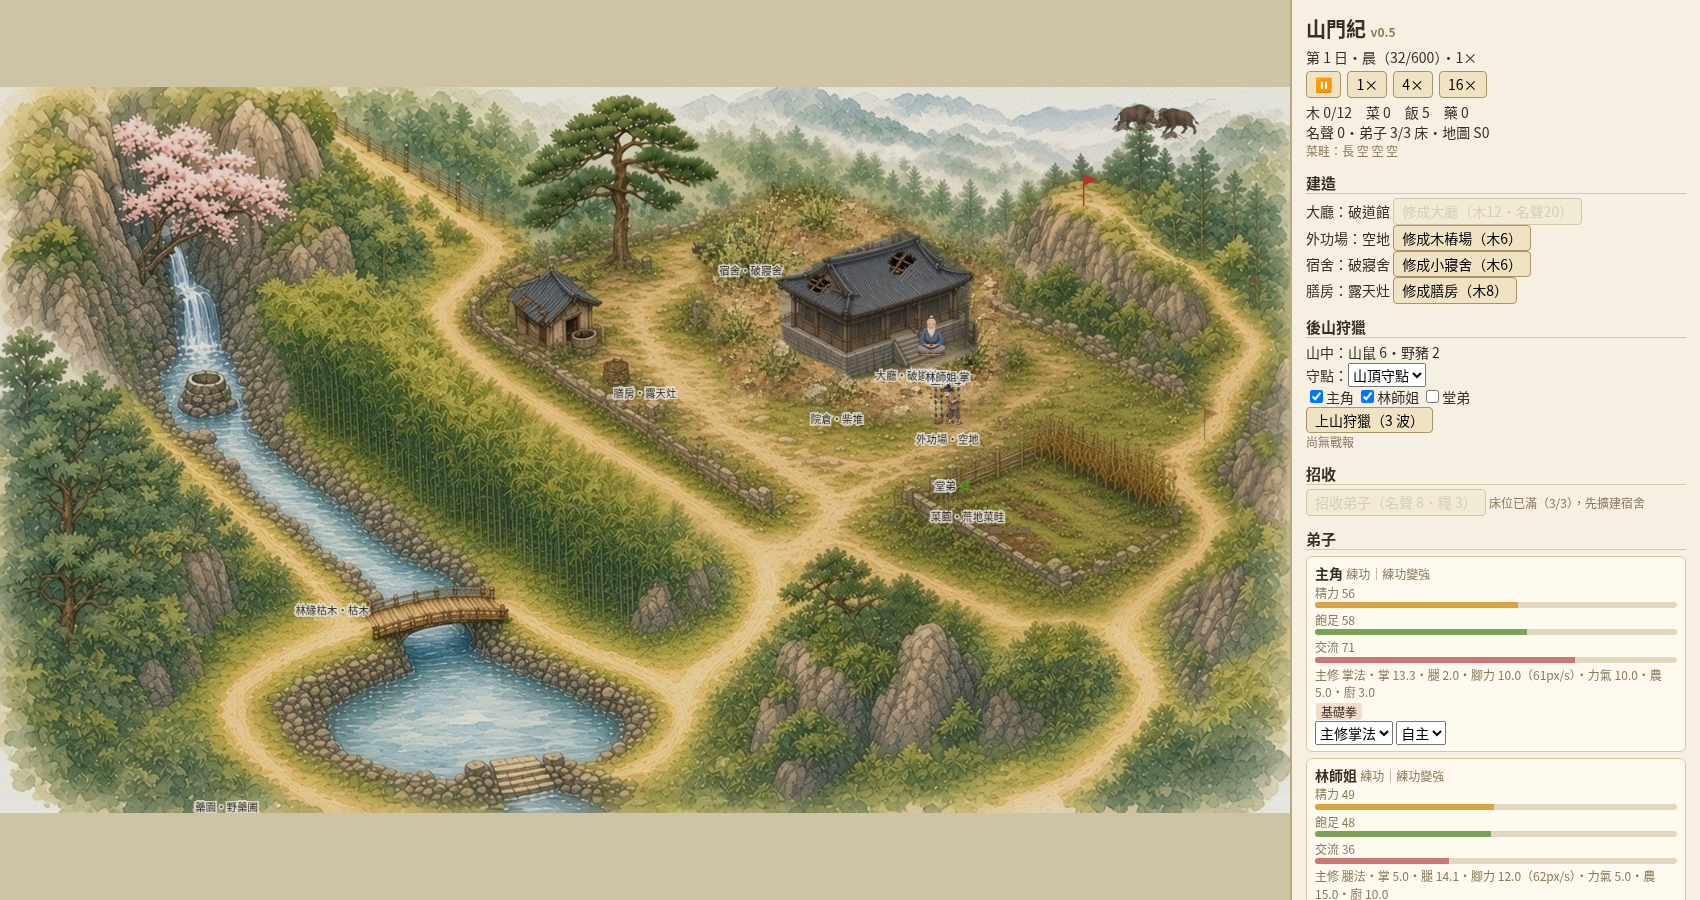
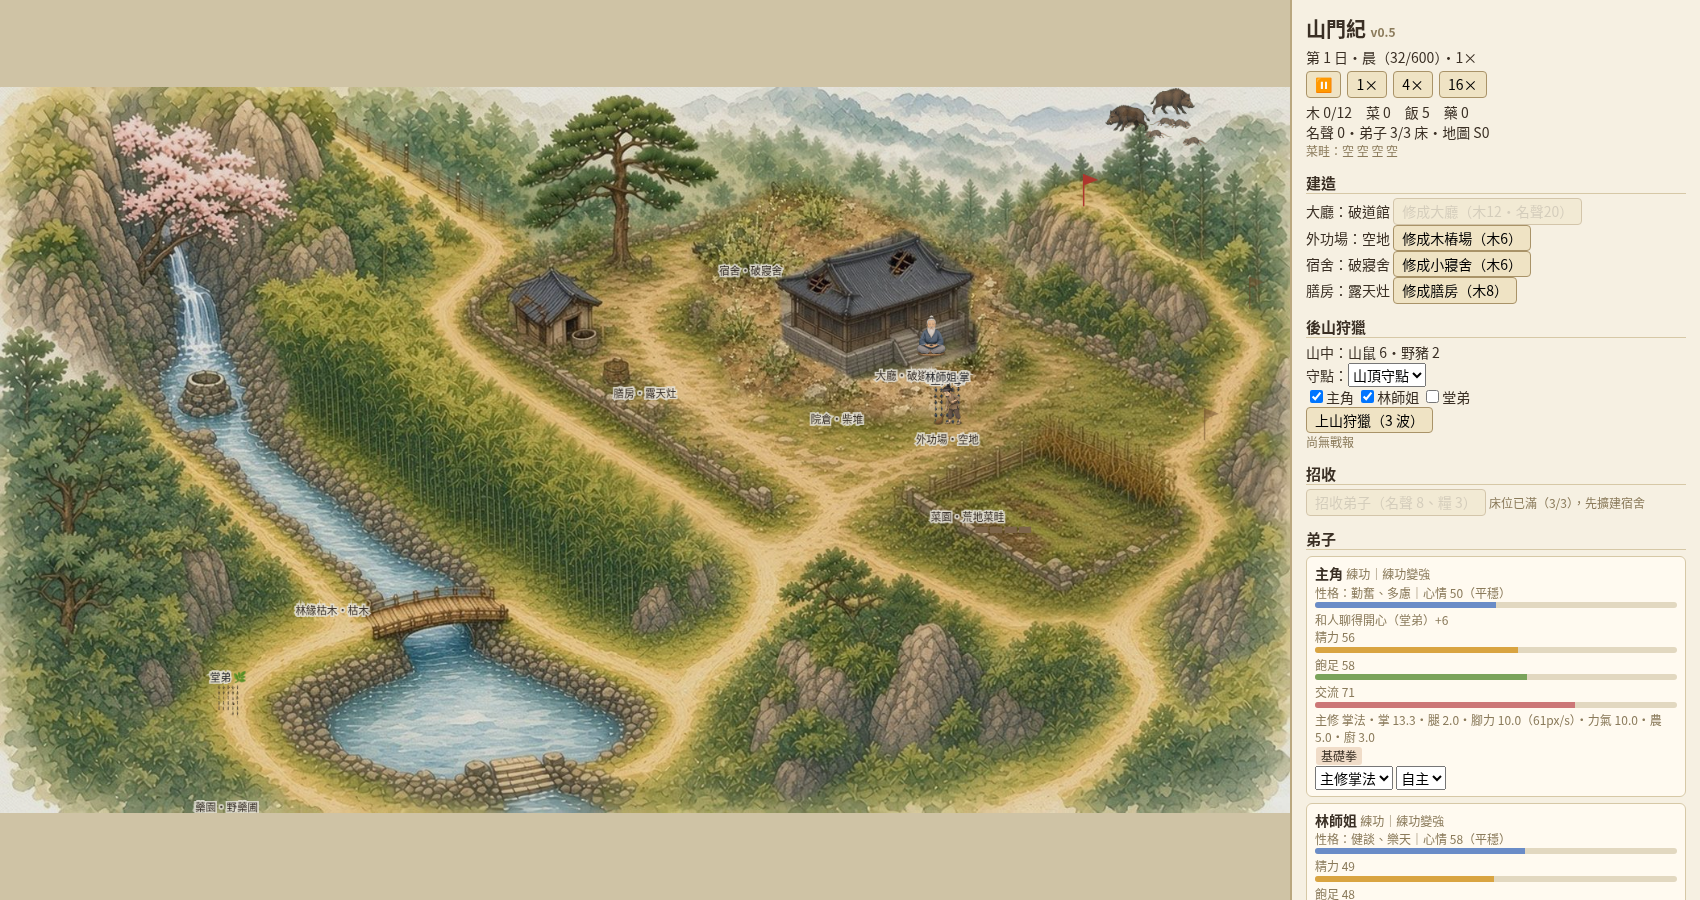
solo-sect v0.6: personality traits + mood/thought model in utility scoring; ROADMAP v0.6-v1.0 from issue mining

diff --git a/solo-sect/ROADMAP.md b/solo-sect/ROADMAP.md
@@ -1,0 +1,134 @@
+# 門派生活 solo-sect — 系統優化與 v0.6–v1.0 路線圖
+
+> 2026-10-25，Grok Bot 獨立分支 `codex/solo-sect-grok`。我掃過 earth-ascension 全部 140 張 issue（含已關閉的），也參考了社群和開源資料。issue 只用來取材，沒有留言，也沒有改動任何 issue。
+> 判定欄位：**採用**＝照原意做；**改編**＝取核心想法，換成本作的簡化版；**延後**＝有價值但不在 v1.0 範圍；**不取**＝不適用。
+
+## 1. Issue 取材表
+
+### 1A. 人物、性格與心智（最值得做）
+| Issue | 想法 | 判定 | 理由 |
+|---|---|---|---|
+| [#163](https://github.com/lalagrass/earth-ascension/issues/163) 三問心印 | 開局回答三題決定初始性格，沒有特別想法就用預選 | **改編→v0.7** | 招募時讓玩家從兩三個「性格組合」裡挑；不想選就直接預設 |
+| [#106](https://github.com/lalagrass/earth-ascension/issues/106) 16 型人格／八卦判詞 | 人格分析加上敘事呈現 | **改編→v0.8** | 系統不跑 16 型，只用 8 個特質；卦辭／判詞當作 UI 上的說明文字 |
+| [#152](https://github.com/lalagrass/earth-ascension/issues/152) 人格命譜、村民自主、招募 | 長期願景：命譜、村莊自主 | 改編→v0.9 | 命譜改成每人一條人物時間線，記錄重大想法與事件 |
+| [#5](https://github.com/lalagrass/earth-ascension/issues/5) 人格漂移近乎零 | 改成由事件驅動漂移，參考 CK3 壓力 | **採用→v0.8** | 壓力累積→崩潰事件→特質可能改變（例如膽大→多慮） |
+| [#2](https://github.com/lalagrass/earth-ascension/issues/2) 記憶超過 12 個月失效但仍佔位 | 改成半衰期衰減；參考 Generative Agents | **已採用 v0.6** | 想法有 ttl，到期就移除；之後再加「重大記憶」長期保留 |
+| [#1](https://github.com/lalagrass/earth-ascension/issues/1)、[#8](https://github.com/lalagrass/earth-ascension/issues/8) 目標達成後全員「穩定生活」 | 人物變得同質化 | **採用→v0.7** | 用性格乘數加長期志向（志向見 v0.7）避免收斂成一樣 |
+| [#176](https://github.com/lalagrass/earth-ascension/issues/176) 目標完成後第 7 天停擺 | 需要可以無限循環的日常 | **採用（已大致具備）** | 需求衰減加生態再生，本來就會循環；v0.7 再加「志向」當中期目標 |
+| [#119](https://github.com/lalagrass/earth-ascension/issues/119) decide(perception, mind) 介面 | 心智決策做成純函式 | 改編 | scoreActs 已經是純評分；v0.7 把評分拆成 considerations |
+| [#133](https://github.com/lalagrass/earth-ascension/issues/133) 「這個角色現在為什麼這樣」 | 用來源支撐角色事實 | **採用→v0.6/v0.7** | 面板顯示想法清單（已做）；v0.7 加「為什麼做這件事」的分數拆解 |
+| [#36](https://github.com/lalagrass/earth-ascension/issues/36) 技能回饋斷鏈 | 每項技能都要回饋到決策 | 採用 | 每個技能至少影響一個活動的速度或產出 |
+| [#37](https://github.com/lalagrass/earth-ascension/issues/37) 玩家角色與組織脫節 | — | 改編 | 玩家扮演「師父」，主角是首徒，下指令的就是師父 |
+
+### 1B. 關係與家庭
+| Issue | 想法 | 判定 | 理由 |
+|---|---|---|---|
+| [#319](https://github.com/lalagrass/earth-ascension/issues/319) A5 人際：聊天、好感、階段 | — | 已採用 v0.4 | 改成雙向不對稱好感（見 §3.2） |
+| [#337](https://github.com/lalagrass/earth-ascension/issues/337) 主角與收養小女孩交談、鼓勵 | 師徒或長幼之間的鼓勵互動 | **採用→v0.7** | 新增「鼓勵」社交：給對方正面想法，對低落的人特別有效 |
+| [#180](https://github.com/lalagrass/earth-ascension/issues/180) 長住堂弟／堂妹 | 已有堂弟 | 已採用 | 成年禮與入門事件放在 v0.9 |
+| [#251](https://github.com/lalagrass/earth-ascension/issues/251) 道館三人組深化 | 人物各有特色 | 採用 | 初始三人的性格組合現在各不相同（v0.6） |
+
+### 1C. 生活與自主（Sims 方向）
+| Issue | 想法 | 判定 | 理由 |
+|---|---|---|---|
+| [#188](https://github.com/lalagrass/earth-ascension/issues/188) 模擬市民式自主：完工後社交、娛樂 | — | **採用→v0.7** | 新增「娛樂」需求和閒暇活動（下棋、看雲、說書） |
+| [#317](https://github.com/lalagrass/earth-ascension/issues/317) A3 弟子：需求、技能、作息 | — | 已採用 | |
+| [#315](https://github.com/lalagrass/earth-ascension/issues/315) A1 設施提供活動 | — | 已採用 | 就是 Sims 的廣告物件（advertisement） |
+| [#205](https://github.com/lalagrass/earth-ascension/issues/205)、[#208](https://github.com/lalagrass/earth-ascension/issues/208) 精力、偏好休閒、叫回 | — | 已採用 | 偏好由性格乘數接手 |
+| [#279](https://github.com/lalagrass/earth-ascension/issues/279)、[#300](https://github.com/lalagrass/earth-ascension/issues/300) 自主飲水 | 水需求 | 延後 | 需求太多會稀釋重點；可以併進「膳房」 |
+| [#170](https://github.com/lalagrass/earth-ascension/issues/170) 生活展示、初學與熟手對照 | 熟練度要看得出來 | 採用→v0.8 | 熟手做得快，動畫也不一樣 |
+
+### 1D. 經濟、物流與擴張
+| Issue | 想法 | 判定 | 理由 |
+|---|---|---|---|
+| [#160](https://github.com/lalagrass/earth-ascension/issues/160) 資源、物流倉儲、人口維持消耗 | 有搬運、有 upkeep | **改編→v0.8** | 已經有 deliver；加上每人每日的維持費，加上倉庫容量 |
+| [#321](https://github.com/lalagrass/earth-ascension/issues/321) A7 設施階段 | — | 已採用 | 預計再加藥圃、丹房、藏經閣、演武場 |
+| [#104](https://github.com/lalagrass/earth-ascension/issues/104) 安全區、資源收益、巡山擴張 | — | **採用→v0.9** | 清過的區域變成安全區，開放新的資源點 |
+| [#75](https://github.com/lalagrass/earth-ascension/issues/75) 生活鍛鍊、輕功、靈材工藝 | — | 改編→v0.8/v1.0 | 輕功＝移速技能線；工藝＝丹房與鍛造 |
+| [#145](https://github.com/lalagrass/earth-ascension/issues/145) 優先復用成熟開源 | — | 採用 | 本作零依賴；有需要再評估 PixiJS（見 [#155](https://github.com/lalagrass/earth-ascension/issues/155)） |
+
+### 1E. 戰鬥、生態與狩獵
+| Issue | 想法 | 判定 | 理由 |
+|---|---|---|---|
+| [#219](https://github.com/lalagrass/earth-ascension/issues/219) 鼠巢生態：清巢可能失敗、鼠群逃散遷徙 | — | **採用→v0.9** | 加巢穴實體、巡山時發現巢穴，以及遷徙機制 |
+| [#320](https://github.com/lalagrass/earth-ascension/issues/320) A6 塔防式狩獵 | — | 已採用 v0.4/v0.5 | |
+| [#318](https://github.com/lalagrass/earth-ascension/issues/318) A4 招式、熟練度 | — | 已採用 | v0.8 改成武學樹，加入互斥的流派 |
+| [#98](https://github.com/lalagrass/earth-ascension/issues/98) 獸患與結局 | — | 改編→v1.0 | 山君（boss）事件當作第一章終局 |
+| [#213](https://github.com/lalagrass/earth-ascension/issues/213)、[#241](https://github.com/lalagrass/earth-ascension/issues/241) 野豬騷擾、自主清鼠 | — | 已採用 | |
+
+### 1F. 敘事與事件
+| Issue | 想法 | 判定 | 理由 |
+|---|---|---|---|
+| [#120](https://github.com/lalagrass/earth-ascension/issues/120) 事件帶因果欄位，日報與編年史當投影 | story sifting | **採用→v0.9** | log 改成結構化事件，帶 causes[]；編年史只讀不寫 |
+| [#105](https://github.com/lalagrass/earth-ascension/issues/105) 自主產生多樣故事 | — | 採用 | 性格、心情、關係和事件疊在一起產生分歧 |
+| [#47](https://github.com/lalagrass/earth-ascension/issues/47)、[#54](https://github.com/lalagrass/earth-ascension/issues/54)、[#60](https://github.com/lalagrass/earth-ascension/issues/60) 事件流可讀性 | 每則事件都要有主詞、不被淹沒 | 採用→v0.7 | 依人物篩選、重大事件置頂 |
+| Novel 系列 [#123](https://github.com/lalagrass/earth-ascension/issues/123)–[#135](https://github.com/lalagrass/earth-ascension/issues/135) | 互動小說 | 不取 | 是另一個產品 |
+
+### 1G. 架構、流程與 CI（多半不適用於單人輕量分支）
+| Issue | 判定 | 理由 |
+|---|---|---|
+| [#117](https://github.com/lalagrass/earth-ascension/issues/117) kernel＋系統模組 | 改編→v0.7 | sim.mjs 超過 450 行；拆成 mood、social、eco、hunt 幾個檔 |
+| [#3](https://github.com/lalagrass/earth-ascension/issues/3) 快照內嵌完整事件史 | 採用 | log 已經只留 60 筆；編年史只存重大事件 |
+| [#10](https://github.com/lalagrass/earth-ascension/issues/10)、[#71](https://github.com/lalagrass/earth-ascension/issues/71)、[#22](https://github.com/lalagrass/earth-ascension/issues/22) 規則／資料版本與可回放 RNG | 採用→v0.7 | 存檔加 rulesVersion；rng 已經在 state 裡 |
+| [#215](https://github.com/lalagrass/earth-ascension/issues/215) 技術債盤點 | 採用 | 每個版本做一次 |
+| #4、#6、#7、#9、#11、#12、#18–#21、#35、#38、#48、#52、#53、#55、#65、#67、#69、#72、#77、#79、#81–#95、#99、#102、#107–#116、#118、#121、#122、#128、#129、#136–#143、#149、#155、#158、#165、#173、#181、#182、#184、#197、#198、#201、#203、#218、#220、#228、#232、#238、#254、#257、#259、#262、#265、#271、#274、#284、#290、#303、#305、#309、#314、#316、#330、#334 | 已涵蓋或不取 | 這些是 Earth M2/M3 或舊 SG 實作、流程、CI、美術交付單。其中可以借用的概念（存讀、作息、巡山、補水、場景整合）在 v0.1–v0.5 已經用簡化方式做掉；其餘屬於別的產品或流程 |
+
+## 2. 社群與開源參考
+- **RimWorld**：[Mood](https://rimworldwiki.com/wiki/Mood)、[Thoughts](https://rimworldwiki.com/wiki/Thoughts)、[Traits](https://rimworldwiki.com/wiki/Traits)、[Social](https://rimworldwiki.com/wiki/Social)。心情＝基線＋想法總和，往目標值慢慢移動；三段崩潰門檻；好感是每人各自持有的意見值。→ v0.6 的心情模型
+- **Dwarf Fortress**：[Personality facet](https://dwarffortresswiki.org/index.php/Personality_facet)、[Value](https://dwarffortresswiki.org/index.php/Personality_value)、[Need](https://dwarffortresswiki.org/index.php/Personality_need)。facet 0–100，需求影響專注度 ±50%。→ focusMul（心情影響成長 0.8–1.2）
+- **了不起的修仙模擬器**（[攻略](https://www.steamxo.com/2019/01/12/535264/)、[Steam 討論](https://steamcommunity.com/app/955900/discussions/0/2997674076180695788/)）：心情低落時外門弟子怠工、內門弟子走火入魔；傳授功法打折。→ v0.8 崩潰事件、師父傳授
+- **太吾繪卷 處世立場**（[灰機 wiki](https://taiwu.huijiwiki.com/)）：立場是連續光譜，違背立場會掉心情，立場相近的人比較容易有好感。→ v0.8「志趣相近加成」
+- **The Sims**／Needs-based AI：[Zubek, Needs-Based AI](https://robert.zubek.net/publications/Needs-based-AI-draft.pdf)、[Sims AI slides](https://team.inria.fr/imagine/files/2014/10/sims-slides.pdf)。智慧物件負責廣告，代理人依需求評分。→ 本作的 FACILITIES 與 ACTIVITIES
+- **Utility AI／IAUS**（Dave Mark）：[IAUS](https://gameai.com/iaus.php)、[Consideration](https://www.gameai.com/manuals/index.php/Consideration)、[Response Curve](https://www.gameai.com/manuals/index.php/Response_Curve)。多個 consideration 經過反應曲線後相乘。→ v0.7 重構 scoreActs
+- **CK3 壓力機制**（#5 提到）：做違背性格的事會累積壓力，崩潰時可能改變特質。→ v0.8
+- **Generative Agents**（Park et al. 2023，#2 提到）：用 recency×importance×relevance 檢索記憶。→ v0.9 編年史挑選重大記憶
+- **Felt／story sifting**（#120 提到）：在事件流上用查詢找出故事。→ v0.9
+- 社群評價（整理自 #284）：鬼谷八荒新手引導好，但突破太偏向強度；太吾探索可以玩 20 小時以上，但 UI 負擔重。→ 本作 UI 只露出人物、心情、想法和建議三樣
+
+## 3. 系統優化設計
+
+### 3.1 性格與心情（v0.6 已實作第一片）
+- 8 個特質，每人 2 個：勤奮、健談、貪玩、溫和、膽大、樂天、多慮、貪吃。每個特質可以帶三種東西：`mods`（活動乘數）、`moodBase`（基線偏移）、`thoughtMul`（放大某一類想法）
+- 想法（記憶）：學會新招 +15、聊得開心 +6、睡床 +5、破地鋪 −5、膳房熱飯 +6、受傷 −12、守住後山 +8、菜被拱 −5。每個想法有 ttl，同一種想法只刷新、不疊加
+- 心情 = 50 + 基線 + 想法總和 + 需求不足的懲罰，每秒往目標移動（上升 3、下降 2）
+- 決策：分數 = 基礎 × 作息 × 性格 × 心情 + 雜訊。心情低於 30 時，練功、砍柴、建造、切磋 ×0.6，休閒 ×1.35；高於 70 時工作 ×1.15
+- **踩到的坑**：如果把種菜和煮飯也算進「低落時壓低」，就會出現餓→低落→沒人煮飯→更餓的死亡螺旋。求生活動不能被心情壓低，現在已經排除
+- 成長 × focusMul(0.8–1.2)
+
+### 3.2 關係（v0.7）
+- 改成雙向不對稱：`rel[a→b]`。好感來源分成「熟悉」（相處時間）和「印象」（事件），參考 RimWorld 的 opinion
+- 相容度 = 共同特質加分，對立特質（勤奮 vs 貪玩）扣分。聊天的成功率依相容度而定，失敗會產生「話不投機」的負面想法
+- 新增「鼓勵」（#337）：長輩對心情低落的人使用，給對方「被鼓勵」+10
+
+### 3.3 Utility AI 重構（v0.7）
+- 每個活動 = 數個 consideration（需求曲線、距離、資源、作息、性格、心情）相乘，再加上 Dave Mark 的補償因子，避免考量越多分數越被壓低
+- 面板上「為什麼做這件事」直接列出前 3 名活動的分數拆解（#133）
+
+### 3.4 武學樹（v0.8）
+- 掌法和腿法各分兩個分支，互斥。熟練度到某個值之後可以「悟」出被動效果
+- 師父傳授的時間隨徒弟熟練度遞減；同門互教（了不起的修仙模擬器式的傳授）
+
+### 3.5 事件（v0.9）
+- 結構化事件 `{id,t,type,actors,causes[]}`。日報、人物時間線、編年史都只讀不寫
+- 隨機事件卡：遊方郎中、山洪、鄰村求援。玩家二選一，選擇會給相關弟子想法
+
+### 3.6 經濟節奏（v0.8）
+- 每人每日糧食 upkeep；倉庫容量；名聲帶來香火錢（新資源「銀」），用來招募和買種子
+- 目標曲線：S0→S1 約 3 天、S1→S2 約 7 天、S2→S3 約 15 天（目前偏快，大約 2/4 天）
+
+## 4. 版本計畫
+| 版本 | 範圍 | DoD | 風險 |
+|---|---|---|---|
+| **v0.6 性格與心情**（本次） | TRAITS／THOUGHTS／mood／focus，面板顯示性格、心情、想法；舊存檔補預設 | 21 項測試通過；5 個 seed 跑 40 分鐘不餓死；無頭走查 0 page error | 心情偏低：開局破道館給玩家壓抑感，算是刻意的，之後要給回升的手段 |
+| v0.7 心智與社交 | consideration 拆解並顯示原因；雙向關係與相容度；鼓勵；娛樂需求；招募時選性格；拆檔；rulesVersion | 「為什麼」面板可以看到；對立性格的兩人好感明顯比較慢；招募 UI 可以預選 | 評分重構可能改變平衡 → 用固定 seed 的回歸快照守住 |
+| v0.8 壓力、武學樹、經濟 | 壓力與崩潰（怠工、出走、走火入魔），特質漂移；武學分支；upkeep、倉庫、銀；藥圃與丹房 | 崩潰事件每 10 天 ≤1 次；同一個人 30 天內可以觀察到特質改變；經濟節奏符合 §3.6 ±30% | 崩潰太頻繁會讓人挫折 → 門檻和冷卻時間做成資料 |
+| v0.9 生態與編年史 | 鼠巢實體、巡山發現、遷徙；安全區擴張；結構化事件加 causes[]；人物時間線；事件卡 | 清巢有成功與失敗兩種結局；時間線每一筆都追得到來源；投影層不消耗 RNG（測試保證） | 範圍大 → 生態和敘事可以拆成 0.9a/0.9b |
+| v1.0 第一章完結 | 山君事件、演武場、輕功、存檔版本遷移、新手引導、效能（10 人以上） | 從破道館玩到擊退山君大約 2–3 小時，不會卡關；舊存檔都能讀；60fps | 美術素材不足 → 繼續用 dev art 加上色塊替代 |
+
+## 5. 需要擁有人決定的事
+1. **後代與世代**：道侶之後要不要生子、年齡增長、世代傳承？（會影響時間尺度和存檔結構；建議 v1.0 只做「收養」，不做生育）
+2. **心情崩潰的強度**：只是怠工，還是包含出走／死亡等級的走火入魔？
+3. **特質可見度**：一開始就全部顯示，還是相處久了才揭露（太吾式）？
+4. **招募的性格選擇**：完全隨機、三選一，還是三問心印式的問答？
+5. **時間尺度**：一天 600 秒是否保留？要不要加季節和年齡？
+6. **是否引入 PixiJS 或其他引擎**（#145、#155）：目前維持零依賴

diff --git a/solo-sect/PROGRESS.md b/solo-sect/PROGRESS.md
@@ -12,3 +12,10 @@
 
 ## 接續點
 v0.6 候選：成家後生活（同住、子嗣不做或另議）、新人個性與師承、逐棟設施對位與遮擋、存檔遷移（v1→v2）與手機最後做。
+
+
+## v0.6 性格與心情（第一片）
+- 8 個性格特質（data TRAITS），每人 2 個；想法記憶有 ttl；心情往目標值移動；評分 × 性格 × 心情；成長 × focus。
+- 求生活動（種菜、煮飯）不受低落壓低，避免死亡螺旋。舊存檔自動補預設值。
+- 面板顯示性格（滑過看說明）、心情條與想法清單。
+- 測試 21 項通過；路線圖見 ROADMAP.md。

diff --git a/solo-sect/DESIGN.md b/solo-sect/DESIGN.md
@@ -59,3 +59,7 @@
 
 ## 素材來源
 見 `ASSETS.md`。全部為 dev 上既有水彩素材縮圖，未新生成。
+
+
+## 性格與心情（v0.6）
+分數 = 基礎 × 作息 × 性格 × 心情 + 雜訊。心情 = 50 + 特質基線 + Σ想法 + 需求懲罰，每秒移動上限 +3／−2。低於 30：可延後的工作 ×0.6、休閒 ×1.35；高於 70：工作 ×1.15。完整設計見 ROADMAP.md §3。
